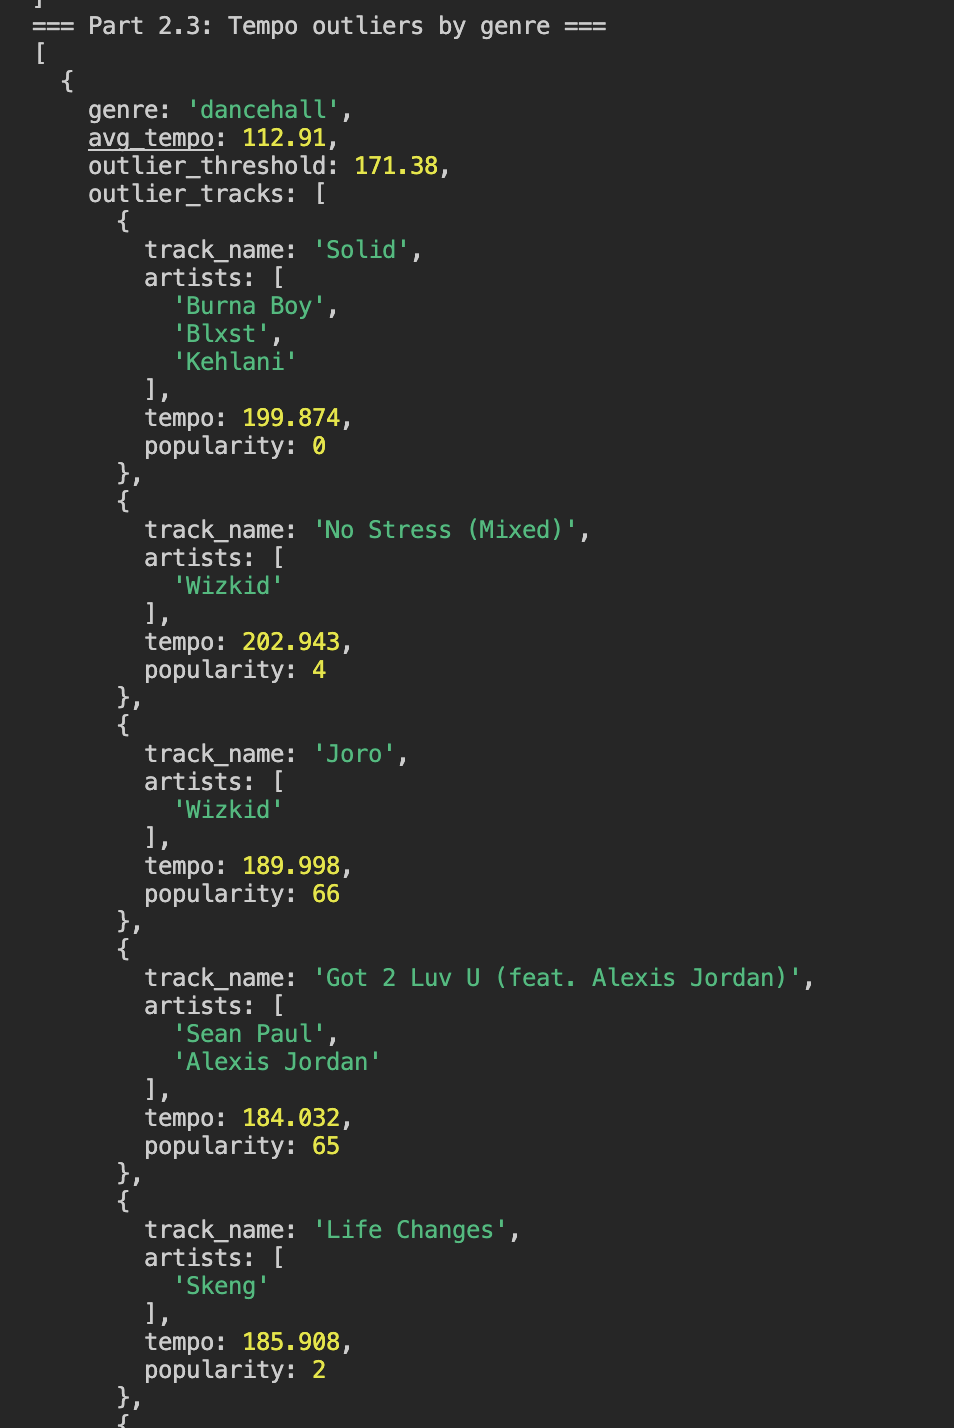
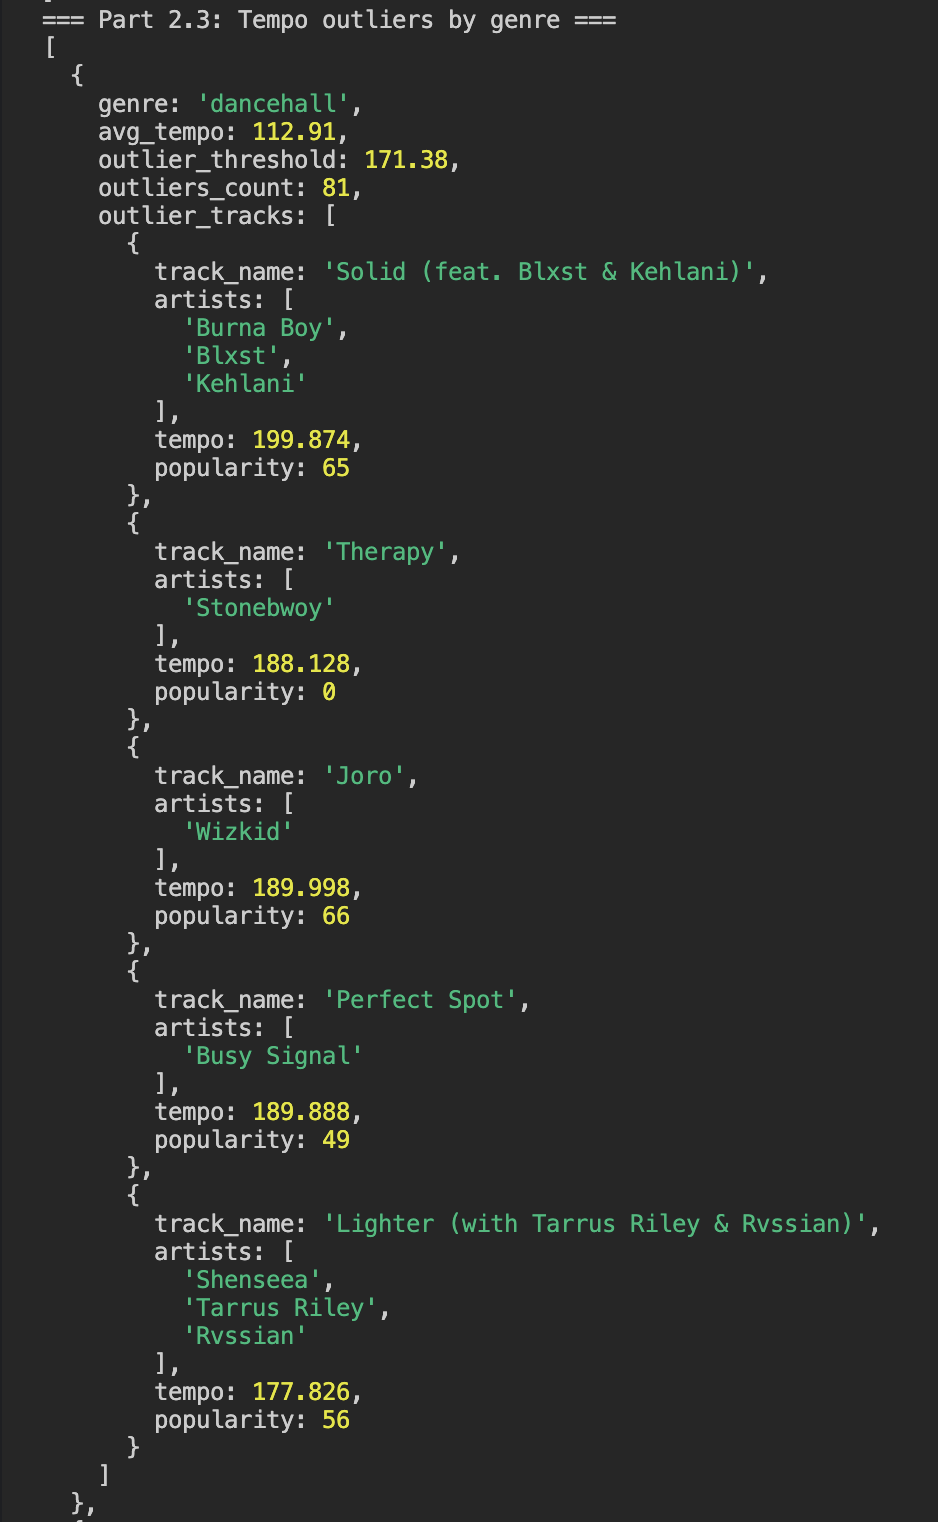
Update README and queries for Spotify analytics: clarify outlier track limits, fix genre terminology, and enhance aggregation logic for danceability.

diff --git a/queries/part2_queries.js b/queries/part2_queries.js
@@ -74,14 +74,11 @@ const tempoOutliers = database.tracks
       }
     },
     {
-      $project: {
-        _id: 0,
-        genre: "$_id",
-        avg_tempo: { $round: ["$avg_tempo", 2] },
-        outlier_threshold: {
-          $round: [{ $add: ["$avg_tempo", { $multiply: [2, "$std_tempo"] }] }, 2]
+      $addFields: {
+        _threshold: {
+          $add: ["$avg_tempo", { $multiply: [2, "$std_tempo"] }]
         },
-        outlier_tracks: {
+        _outliers: {
           $filter: {
             input: "$tracks",
             as: "track",
@@ -95,12 +92,17 @@ const tempoOutliers = database.tracks
         }
       }
     },
-    { $match: { "outlier_tracks.0": { $exists: true } } },
     {
-      $addFields: {
-        outliers_count: { $size: "$outlier_tracks" }
+      $project: {
+        _id: 0,
+        genre: "$_id",
+        avg_tempo: { $round: ["$avg_tempo", 2] },
+        outlier_threshold: { $round: ["$_threshold", 2] },
+        outliers_count: { $size: "$_outliers" },
+        outlier_tracks: { $slice: ["$_outliers", 5] }
       }
     },
+    { $match: { outliers_count: { $gt: 0 } } },
     { $sort: { outliers_count: -1, genre: 1 } }
   ])
   .toArray();

diff --git a/queries/part3_aggregations.js b/queries/part3_aggregations.js
@@ -85,7 +85,7 @@ const moodDistribution = database.tracks
   .toArray();
 printjson(moodDistribution);
 
-print("=== Part 3.3: Most danceable genres (min 100 tracks) ===");
+print("=== Part 3.3: Most danceable genre (min 100 tracks) ===");
 const danceableGenres = database.tracks
   .aggregate([
     {
@@ -108,7 +108,8 @@ const danceableGenres = database.tracks
         avg_valence: { $round: ["$avg_valence", 3] }
       }
     },
-    { $sort: { avg_danceability: -1, tracks_count: -1, genre: 1 } }
+    { $sort: { avg_danceability: -1, tracks_count: -1, genre: 1 } },
+    { $limit: 1 }
   ])
   .toArray();
 printjson(danceableGenres);

diff --git a/README.md b/README.md
@@ -84,6 +84,8 @@ MONGO_URI=$(grep '^MONGO_URI=' .env | cut -d= -f2-) && mongosh "$MONGO_URI" --fi
 
 - 2.3  Нетипові треки
 
+  > Оскільки в умові задачі не вказано ліміт на кількість аутлаєрів у жанрі, у полі `outlier_tracks` виводяться щонайбільше 5 треків на жанр. Повна кількість аутлаєрів у жанрі відображається в полі `outliers_count`.
+
 <img src="sceenshots/part_2.3.png" width="300" style="border: 1px solid grey;">
 
 - 2.4 Треки для фонової роботи
@@ -106,9 +108,9 @@ MONGO_URI=$(grep '^MONGO_URI=' .env | cut -d= -f2-) && mongosh "$MONGO_URI" --fi
 
 <img src="sceenshots/part_3.2.png" width="300" style="border: 1px solid grey;">
 
-- 3.3 Найтанцювальніші жанри (min 100 tracks)
+- 3.3 Найтанцювальніший жанр (min 100 tracks)
 
-<img src="sceenshots/part_3.1.png" width="300" style="border: 1px solid grey;">
+<img src="sceenshots/part_3.3.png" width="300" style="border: 1px solid grey;">
 
 
 ### Крок 5: Частина 4 - Індекси та оптимізація
